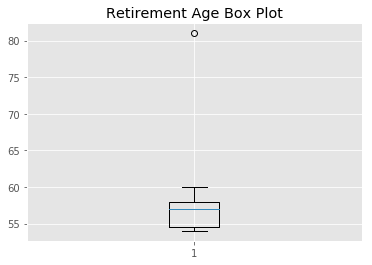
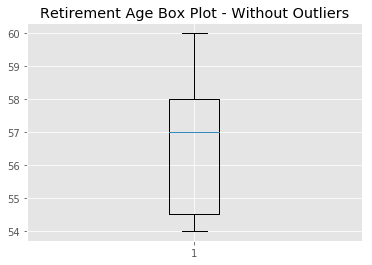
clarify IQR calculation

diff --git a/README.md b/README.md
@@ -3,7 +3,7 @@
 
 ## Introduction
 
-Previously, you learned about three Measures of Central Tendency: the mean, median and mode. These metrics can give you a general understanding of where data values lie within the range of the whole data set but they don't tell you whole story. In fact, they can often be misleading!
+Previously, you learned about three Measures of Central Tendency: the mean, median and mode. These metrics can give you a general understanding of where data values lie within the range of the whole data set but they don't tell you the whole story. In fact, they can often be misleading!
 
 To truly understand your data, you also need **Measures of Dispersion**, namely: absolute deviation, standard deviation, and variance. These measures tell you how tightly (or loosely) your data is clustered around its center. Generally, measures of dispersion report on how "noisy" your dataset is. 
 
@@ -11,7 +11,7 @@ In this lesson, you'll learn about the different measures of dispersion and expl
 
 ## Objectives
 You will be able to:
-- Describe the significance of calculating measures of dispersion for continuous data
+- Describe the significance of calculating measures of dispersion for data
 - Understand the formula and intuition behind absolute deviation, variance, and standard deviation
 - Understand quantiles, quartiles, percentiles, and interquartile range
 - Understand, interpret, and visualize interquartile distances with box plots
@@ -23,7 +23,7 @@ You will be able to:
 
 > $\left|x_i - \bar{x}\right|$
 
-Here $x_i$ denotes an element from $[x_1, x_2, .., x_n]$ , where n is the total number of data points in the data set. The symbol $\bar{x}$ (pronounced "x-bar") is a commonly used mathematical notation to represent the mean. The vertical bars are used to denote absolute value which means all absolute deviation values are positive. This is important because when measuring deviation, you just want to focus on how big the difference is, not its sign.
+Here $x_i$ denotes an element from $[x_1, x_2, .., x_n]$ , where n is the total number of data points in the data set. Recall, the symbol $\bar{x}$ (pronounced "x-bar") represents the sample mean. The vertical bars are used to denote absolute value so all absolute deviation values are positive. This is important because when measuring deviation, you just want to focus on how big the difference is, not its sign.
 
 If that sounded a little confusing, consider this example: Say the mean test score for a group of 100 students is 58.75 out of 100. If a particular student scored 60 out of 100, the absolute deviation of that score from the mean is:
 
@@ -52,7 +52,7 @@ OK, that was a mouthful but you can break it down mathematically as follows:
 
 $$ \large \sigma^2 = \dfrac{1}{n}\displaystyle\sum^n_{i=1}(x_i-\mu)^2 $$
 
-You'll notice a new term: $\mu$ (mu). $\mu$ is the true mean and $\bar x$ is the arithmetic mean. For this purpose, we can think of them as essentially the same. However, in mathematical terms, $\bar x$ is our sample mean and $\mu$ is the mean of the population that the sample was taken from. The variance formula changes slightly depending on whether you are working with data from a sample or data from the entire population. Don't worry if this is confusing now, the details will be discussed further later. 
+> Recall the distinction between the sample mean ($\bar{x}$) and the population mean ($\mu$) - namely, that a sample mean is calculated using a subset of the population whereas the population mean is calculated using the entire population. You'll see here that the population mean is used. This is because unlike the mean, the variance formula changes slightly depending on whether you are working with data from a sample or data from the entire population. Don't worry if this is a little confusing now, the details will be discussed later. 
 
 Say you want to calculate the variance of our salary data above. The first step is to calculate all of the differences from the mean:
 
@@ -76,7 +76,7 @@ Finally, add them up and divide by the total number:
 
 As a measure of dispersion, the variance is very useful. If the values in the data set are spread out about their mean, the variance will be a large number. On the other hand, if the values are clustered closely around their mean, the variance will be a much smaller number. 
 
-There are, however, two potential problems with the variance. First, because the deviations of values from the mean are squared, this gives more weight to extreme values. Outliers, which differ substantially more from the mean than the rest of the data in a data set, will impact the variance. Secondly, the variance is not in the same *units* as the individual values in a data set. Variance is measured in the *units squared*. This means we cannot directly relate a variance value to the values in our data set. In this isn't clear, go back to the salary example above. The salaries are measured in USD but the variance is measured in *USD squared* which is not the same thing.
+There are, however, two potential problems with the variance. First, because the deviations of values from the mean are squared, this gives more weight to extreme values. Outliers, which differ substantially more from the mean than the rest of the data in a data set, will impact the variance. Secondly, the variance is not in the same *units* as the individual values in a data set. Variance is measured in the *units squared*. This means we cannot directly relate a variance value to the values in our data set. If this isn't clear, go back to the salary example above. The salaries are measured in USD but the variance is measured in *USD squared* which is not the same thing.
 
 Fortunately, calculating the standard deviation rather than the variance fixes this problem. 
 
@@ -93,25 +93,23 @@ So for the salary example above, you can calculate:
 
 Now, the units are in USD again!
 
-One common application of calculating the standard deviation is in *statistical inference*. As a data scientist, you will often be presented with data from a sample of a population like discussed above. The task in statistical inference is to estimate the population standard deviation from the sample standard deviation. Don't worry about the details for now. You'll learn about statistical inference soon.
-
 ## Quantiles, Percentiles, and Quartiles
 
 **Quantiles** are points in a distribution that relate to the *rank order* of values in that distribution. Rank ordering just means the data are sorted in ascending order. You can find any quantile by sorting the sample. The middle value of the sorted sample (middle quantile, 50th percentile) is known as the **median**. The **limits** are the **minimum** and **maximum** values. Any other locations between these points can be described in terms of **percentiles**.
 
-Percentiles are descriptions of quantiles relative to 100. So the 80th percentile is 80% of the way up an ascending list of sorted values of data. For example, take a look at the image below. You are in the 80th percentile for height so 80% of people in the data set are shorter than you. 
+Percentiles are descriptions of quantiles relative to 100. So the 80th percentile is 80% of the way up an ascending list of sorted values of data. For example, take a look at the image below: 80% of people in the data set are shorter than you so you are in the 80th percentile for height. 
 
 ![](images/percent.svg)
 
 
 ## InterQuartile Range - IQR
-The **quartiles** of a data set divide the data into **four** equal parts with one-fourth of the data values in each part. Since there are four equal parts, there are 3 quartile positions that divide them. These are denoted by Q1, Q2, and Q3. The second quartile position, Q2, is the median of the data set, which divides the data set in half. Q1 is the border between the first two groups and is known as the "lower quartile". Similarly, Q3 is the border between the last two groups and is known as the "upper quartile". The image below illustrates how this looks:
+The **quartiles** of a data set divide the data into **four** equal parts. Since there are four equal parts, there are 3 quartile positions that divide them. These are denoted by Q1, Q2, and Q3. The second quartile position, Q2, is the median of the data set, which divides the data set in half. Q1 divides the lower half and is known as the "lower quartile". Similarly, Q3 divides the upper half and is known as the "upper quartile". The image below illustrates how this looks:
 
-<img src="images/IQR_new.png" width="600">
+<img src="images/new_measuresofdispersion2.png" width="600">
 
 The **InterQuartile Range (IQR)** is a measure of where the “middle fifty” is in a data set which is given by $ Q3 - Q1 $. This is useful because it tells you where the bulk of the values lie. To relate these concepts back to percentiles, Q1 is the 25th percentile and Q3 is the 75th percentile. The IQR is calculated by subtracting the 25th percentile from the 75th percentile. 
 
-In practice, there are actually several different methods for determining percentiles which are accepted and you may have encountered some of these methods before. For now, you can just focus on the method shown below which is what is used by default in the go-to statistical Python packages you will use throughout this course.
+In practice, there are actually several different methods for determining percentiles which are accepted and you may have encountered some of these methods before. For now, you can just focus on the method shown below which is what is used by default in the go-to statistical and mathematical Python packages, you will throughout this course and your career, like numpy.
 
 ### Calculating IQR for a Given Data Set
 
@@ -123,7 +121,7 @@ You will now get a feel for how IQR is calculated using the collection of number
 x = [3, 5, 8, 12, 15, 18, 20, 22, 25, 30, 50, 80, 687]
 ```
 
-**Step 1:** Sort the data in ascending order (these numbers are already sorted)
+**Step 1:** Sort the data in ascending order (these numbers are already sorted but don't skip this step when you do this on other data, it's important!).
 
 
 ```python
@@ -131,7 +129,7 @@ x = [3, 5, 8, 12, 15, 18, 20, 22, 25, 30, 50, 80, 687]
 x = sorted(x)
 ```
 
-**Step 2:** Calculate the distance between the last element and the first element
+**Step 2:** Calculate the distance between the last element and the first element.
 
 
 ```python
@@ -139,7 +137,7 @@ x = sorted(x)
 distance = len(x) - 1
 ```
 
-**Step 3:** Multiply the distance by the desired percentiles, 25th and 75th. This will yield the indices of the elements that correspond to the 25th percentile and 75th percentile.
+**Step 3:** Multiply the distance by the desired percentiles, 25th and 75th, expressed as fractions. This will yield the indices of the elements that correspond to the 25th percentile and 75th percentile, respectively.
 
 
 ```python
@@ -217,7 +215,7 @@ iqr
 
 
 
-In practice, you will probably never calculate the IQR by hand since Python libraries like NumPy have built in methods for calculating percentiles.  
+In practice, you will probably never calculate the IQR by hand since numpy has a built-in method for calculating percentiles.  
 
 
 ```python
@@ -233,20 +231,21 @@ np.percentile(x, 75) - np.percentile(x, 25)
 
 
 
-You might have noticed that the indices calculated above happened to be whole numbers. Whole numbers are great to work with here since they can be used as indices directly. The calculation becomes a little more complicated when the indices are fractional numbers. In this case, NumPy will use a technique called "linear interpolation" to take the fractional components into account. This is beyond the scope of what you need to know but if you are curious you can check out the [documentation]("https://docs.scipy.org/doc/numpy/reference/generated/numpy.percentile.html"). 
+You might have noticed that the indices calculated above happened to be whole numbers. Whole numbers are great to work with here since they can be used as indices directly. The calculation becomes a little more complicated when the indices are fractional numbers. In this case, numpy will use a technique called "linear interpolation" to take the fractional components into account. This is beyond the scope of what you need to know but if you are curious about how it works you can check out the [documentation]("https://docs.scipy.org/doc/numpy/reference/generated/numpy.percentile.html"). 
 
 ## Visualizing Dispersion with Box Plots
 
 As a data scientist, you will need to be able to present your analysis visually. Box plots are a commonly used visual representation of centrality and spread of data that is based on quartiles.
 
 A general depiction of a box plot is shown below:
-<img src="./images/boxplot.png" width="600">
+
+<img src="./images/new_boxplot.png" width="600">
 
 An important feature of the box plot is the set of lines that radiate from the middle to the "minimum" and "maximum" values. These lines are commonly called **"whiskers"**. You've probably noticed in the image above that the lines do not go to the true minimum and maximum values (confusing right?) but rather $ Q1 - 1.5*IQR $ and $ Q3 + 1.5*IQR $, respectively. Any values that fall outside this range are shown as individual data points. These values are considered outliers. 
 
  > Note: you might have read about some alternative definitions for how to draw the whiskers. Though these alternative definitions may be acceptable in some contexts, the definition presented here is what Python uses so it's best to stick with that.
 
-Matplotlib can be used to generate box plots given a collection of values.
+Matplotlib can be used to generate box plots given a collection of values. Consider the retirement age data again:
 
 
 ```python
@@ -260,9 +259,13 @@ plt.title ("Retirement Age Box Plot")
 plt.show()
 ```
 
-In this box plot, you can see that it is very easy to visualize the central tendency of the data. The median is drawn as a blue line at 57. The IQR identifies the middle 50% of the data which is shown as the box. The whiskers (two horizontal lines) show the minimum (54) and maximum (60) values in our dataset that fall within $Q1-1.5IQR$ and $Q3+1.5IQR$, respectively. The point at 81 falls outside the range of the whiskers so it is shown as a data point and is considered an outlier.
 
-The outlier value squishes the visualization of the box. Sometimes, it is convenient to hide the outliers to get a better view of the box. You can pass the argument `showfliers=False` to hide the outliers:
+![png](index_files/index_20_0.png)
+
+
+In this box plot, you can see that it is very easy to visualize the central tendency of the data. The median is drawn as a blue line at 57. The IQR identifies the middle 50% of the data which is shown as the box. The whiskers (two horizontal lines) show the minimum (54) and maximum (60) values in our dataset that fall within $Q1-1.5*IQR$ and $Q3+1.5*IQR$, respectively. The point at 81 falls outside the range of the whiskers so it is shown as a data point and is considered an outlier.
+
+The outlier data point squishes the visualization of the box. Sometimes, it is convenient to hide the outliers to get a better view of the box. You can pass the argument `showfliers=False` to hide the outliers:
 
 
 ```python
@@ -271,8 +274,13 @@ plt.title ("Retirement Age Box Plot - Without Outliers")
 plt.show()
 ```
 
-You will revisit these topics continuously throughout the course and will see how these concepts are used toward effective data analysis. 
+
+![png](index_files/index_22_0.png)
+
+
+Use the ```showfliers``` option with caution. You don't want to ignore data! 
+
 
 ## Summary
 
-In this lesson, you learned about some commonly used measures of dispersion. These measures identify the spread or deviation present in a data set. You also looked at quantiles, percentiles, quartiles, and IQR as well as how to use those concepts to construct box blots for visualizing the distribution of data in a given data set.
+In this lesson, you learned about some commonly used measures of dispersion. These measures identify the spread or deviation present in a data set. You also looked at quantiles, percentiles, quartiles, and IQR as well as how to use those concepts to construct box blots for visualizing the distribution of data in a given data set. You will revisit these topics continuously throughout the course and will see how these concepts are used toward effective data analysis. 
